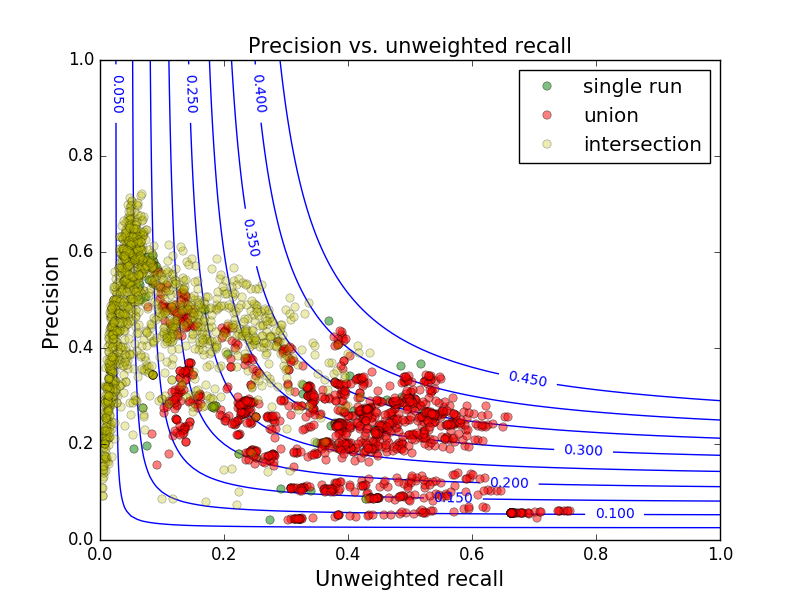
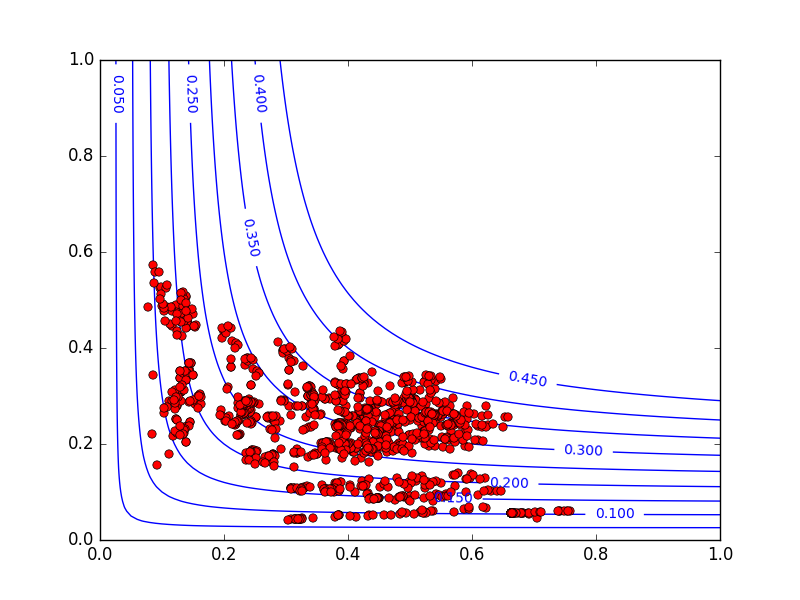
finished union and intersection both weighted and unweighted

diff --git a/plot.py b/plot.py
@@ -8,7 +8,7 @@ import pickle
 
 runtags=[]
 
-recall_type=2 #unweighted recall line[2], weighted recall line[3], for now, unweighted recall first....
+recall_type=3 #unweighted recall line[2], weighted recall line[3], for now, unweighted recall first....
 
 #get system runtag list
 for filename in os.listdir('run_results/'):
@@ -34,7 +34,7 @@ ax.plot(recall, precision, 'go',alpha=0.5,label='single run')
 recall=[]
 precision=[]
 
-recall_type=3
+recall_type=4
 file_input=open('fuse_recall_results_on_official_clusters_by_cluster_size_union.txt','r')
 lines=file_input.readlines()
 for i in range(1,len(lines)):
@@ -47,8 +47,6 @@ ax.plot(recall, precision, 'ro',alpha=0.5,label='union')
 
 recall=[]
 precision=[]
-
-recall_type=3
 file_input=open('fuse_recall_results_on_official_clusters_by_cluster_size_intersection.txt','r')
 lines=file_input.readlines()
 for i in range(1,len(lines)):
@@ -73,11 +71,11 @@ plt.clabel(CS, inline=1, fontsize=10)
 plt.axis([0, 1.0, 0, 1.0])
 plt.xticks(np.arange(0,1.1,0.2))
 plt.yticks(np.arange(0,1.1,0.2))
-plt.xlabel("Unweighted recall",fontsize=15)
+plt.xlabel("eighted recall",fontsize=15)
 plt.ylabel("Precision",fontsize=15)
-plt.title("Precision vs. unweighted recall",fontsize=15)
+plt.title("Precision vs. weighted recall",fontsize=15)
 
-plt.savefig('Precision vs. unweighted recall.png')
+plt.savefig('Precision vs. weighted recall.png')
 plt.show()
 plt.close()
 
